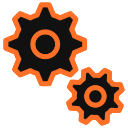
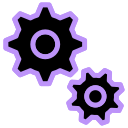
change nav user
el diseño del usuario del nav esta completo

Changed region(s): [[0.0, 0.0, 1.0, 1.0], [0.2188, 0.2188, 0.4688, 0.4688], [0.6562, 0.6562, 0.8438, 0.8438]]

diff --git a/js/nav.js b/js/nav.js
@@ -12,17 +12,26 @@ var modalU = document.querySelector(".contain_option");
 var decoU = document.querySelector(".decorate_user");
 
 
-btnUser.addEventListener("click", function(){
-    modalU.style.visibility = "visible";
-    decoU.style.visibility = "visible";
-});
 
 
 $(document).on("click",function(e) {
-    var btnU = $("#btn_user");  
+    var btnU = $("#btn_user"); 
+    var imgU = $(".img-user"); 
+    var lblU = $(".lbluser"); 
+
     var container = $(".contain_option");            
-    if (container.is(e.target)) { 
+    if (!container.is(e.target) && container.has(e.target).length === 0) { 
+        //si se disparo el btn se hace la condicion 
+        if(btnU.is(e.target) || imgU.is(e.target) || lblU.is(e.target)){
+            console.log("true");
+            modalU.style.visibility = "visible";
+            decoU.style.visibility = "visible";
+        }else{
+            modalU.style.visibility = "hidden";
+            decoU.style.visibility = "hidden";
+            console.log("else");
+        }
         
-        modalU.style.visibility = "hidden";
     }
 });
+

diff --git a/css/navStyle.css b/css/navStyle.css
@@ -167,13 +167,14 @@ html {
     position: relative;
     font-size: 1.3rem;
     padding-top: 0.3rem;
-    
   }
-  
+  .btn_user-nav{
+    background-color: var(--darker);
+    border: none;
+  }
   .img_user {
     border: none;
     position: relative;
-    background-color: red;
   }
   .lbluser {
     padding-top: 0.5rem;
@@ -189,7 +190,6 @@ html {
     background-color: var(--black);
     margin-top: 5.5rem;
     visibility: hidden;
-    display: none;
   }
   
   .contain_option {
@@ -202,7 +202,10 @@ html {
     border-radius: 0.5rem;
     visibility: hidden;
   }
-
+.contain_option button{
+  background-color: var(--black);
+  border: none;
+}
   
   .option {
     margin-top: 0.5rem;
@@ -220,7 +223,7 @@ html {
     overflow: hidden;
     width: 100%;
   
-    border-top: 1px solid var(--orange);
+    border-top: 1px solid var(--primary);
   }
   
   .lbl_c {

diff --git a/nav.php b/nav.php
@@ -34,37 +34,42 @@
 
         
         <div class="contain_user btn-show flex">
-            <div class="img_user flex" id="btn_user" for="checkbox_menu">
-                <img src="../img/perfil.png" class="size-img img-user pointer" />
-                <div class="lbluser pointer">Usuario</div>
-                <div class="decorate_user "></div>
-            </div>
+            <button class="btn_user-nav">
+                <div class="img_user flex" id="btn_user" for="checkbox_menu">
+                    <img src="../img/perfil.png" class="size-img img-user pointer" />
+                    <div class="lbluser pointer">Usuario</div>
+                    <div class="decorate_user "></div>
+                </div>
+            </button>
+            
             
             <div class="contain_option " id="conteiner_option">
-                <div class="option flex">
+                <button class="option flex">
                     <div class="op flex" id="btn_userr">
                         <img src="../img/user.png" class="separation size-img pointer">
                         <label class="pointer">Ver Perfil</label>
                     </div>
-                </div>
-                <label class="content-input option flex">
-                    <div class="op flex">
-                        <input type="checkbox">Conectado<i></i>
-                    </div>
-                </label>
-                <div class="option flex">
+                </button>
+                <button class="option flex">
+                    <label class="content-input">
+                        <div class="op flex">
+                            <input type="checkbox">Conectado<i></i>
+                        </div>
+                    </label>
+                </button>
+                <button class="option flex">
                     <div class="xx op flex">
                         <img src="../img/configuration.png" class="separation size-img pointer">
                         <label class="pointer">Editar Perfil</label>
                     </div>
-                </div>
+                </button>
                 <div class="line"></div>
-                <div class="option flex">
+                <button class="option flex">
                     <div class="op flex">
                         <img src="../img/exit.png" class="separation size-img pointer">
                         <label class="lbl_c pointer">Cerrar Sesion</label>
                     </div>
-                </div>
+                </button>
             </div>
         </div>
     </div>
